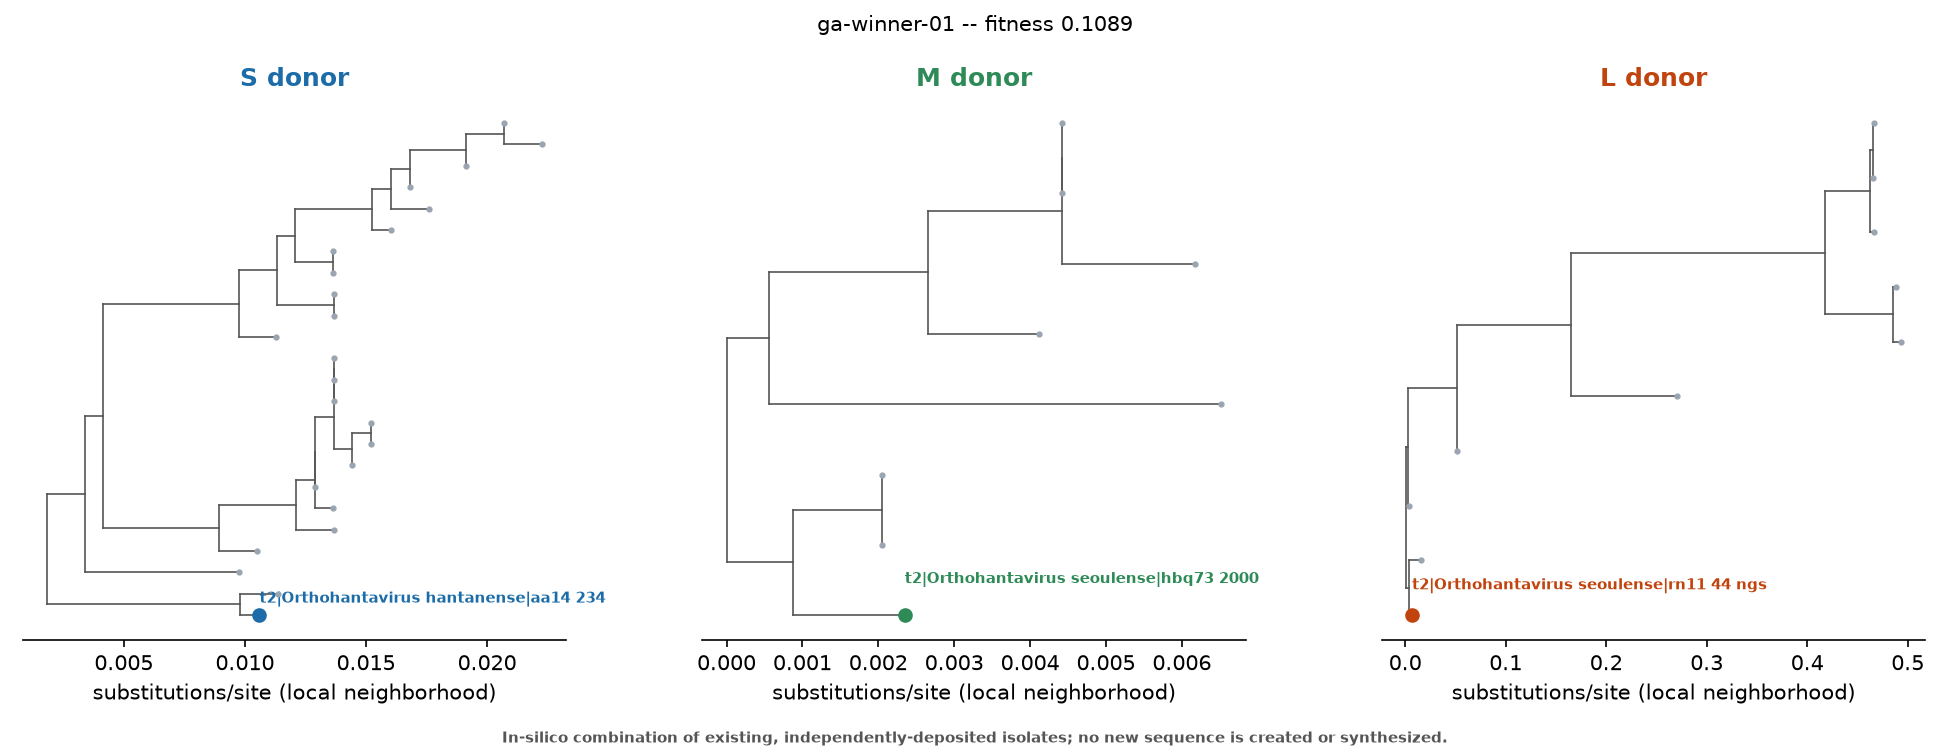
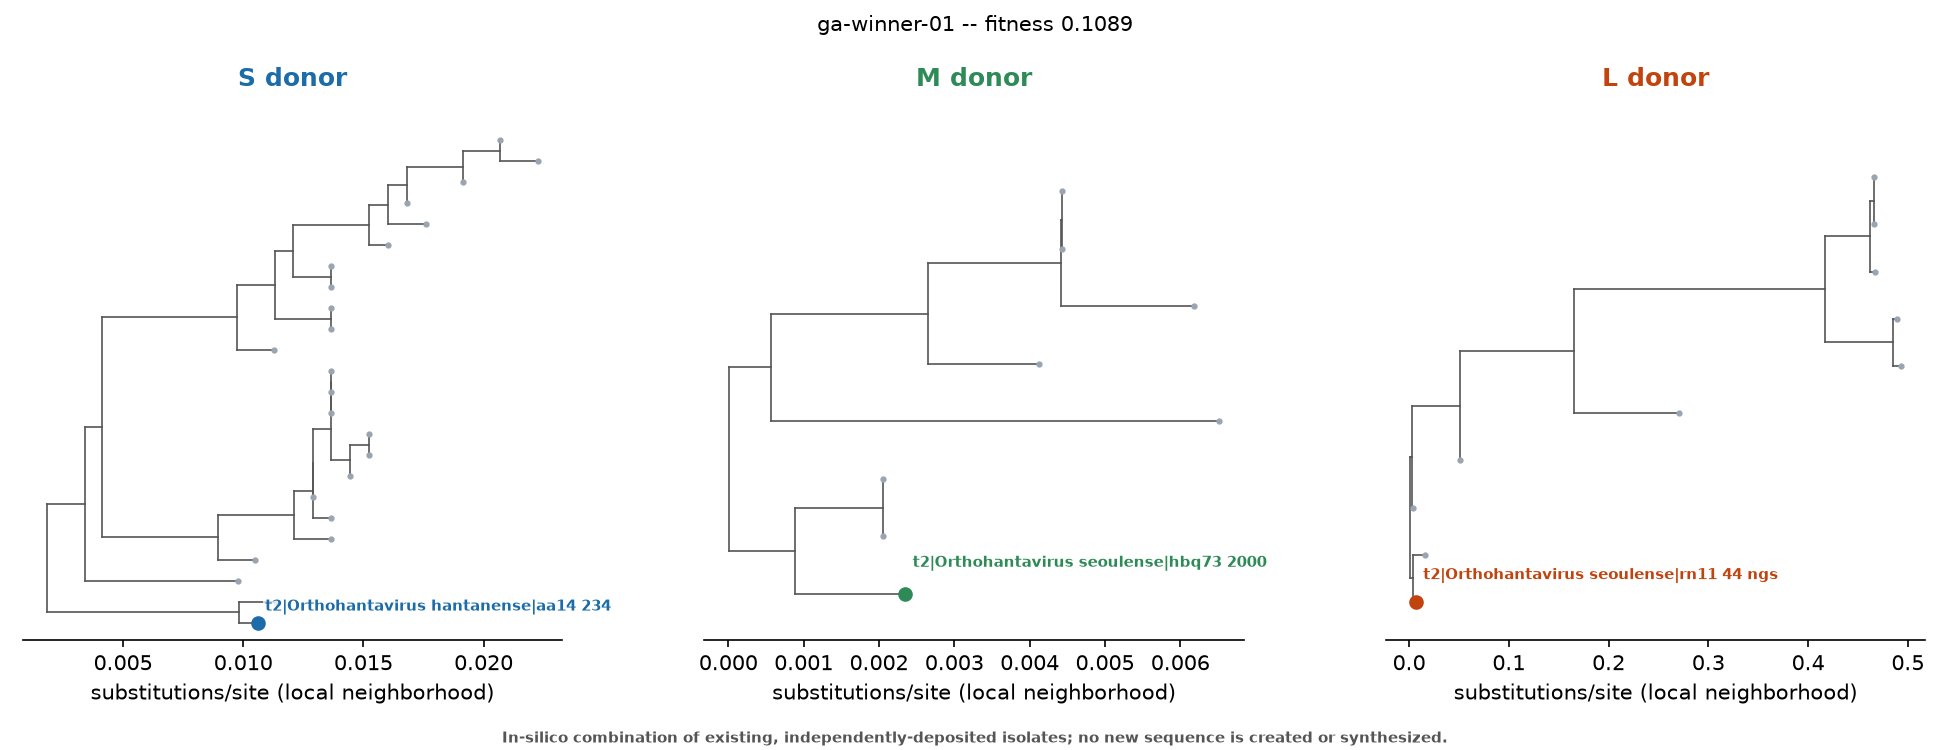
figures: keep highlighted-tip labels inside their panel
The highlighted donor's label is drawn above its own marker. Two ways it
escaped the panel, both visible in output/figures/after_terminal_complete/
ga-winner-00.png:

  * When the highlighted tip was the top-most one in the local neighborhood,
    the label landed in the title area -- "S donor" sat on top of
    t2|Orthohantavirus hantanense|js9. Matplotlib autoscales to the tip markers
    and a text artist does not extend the data limits, so the axes never
    reserved room for it: with tips at y 0..2 the autoscaled top is 2.10 while
    the label's baseline is at 2.40.
  * When the highlighted tip was one of the right-most ones, the left-aligned
    label ran past the right spine and was clipped -- the L donor's
    t2|Orthohantavirus seoulense|hbt43 2012 lost its tail.

draw_cladogram now sets an explicit ylim reserving LABEL_HEADROOM above the
label, and flips to right-alignment once the tip is past 45% of the panel's
x-range so the text grows leftwards into empty tree space. Panel titles get
TITLE_PAD_PT of extra pad. In a dense neighborhood a label can still cross
branch lines, so it is drawn over a near-opaque backing box.

Both panel families share draw_cladogram, so the before-panels get the same
fix; their cross-panel ConnectionPatch links are in data coordinates and are
unaffected by the ylim change (verified by re-rendering).

All 27 committed figures regenerated: 7 before, 10 per GA pool. The two
[…]

diff --git a/figures.py b/figures.py
@@ -48,6 +48,13 @@ SEGMENTS = ("S", "M", "L")
 SLOT_COLOR = {"S": "#1b6ca8", "M": "#2e8b57", "L": "#c1440e"}
 DEFAULT_MIN_TIPS = 8
 
+# Highlighted-tip label geometry, in tip-row units (one unit = one tip row).
+# LABEL_Y_OFFSET lifts the label off its own marker; LABEL_HEADROOM is the clear space
+# kept above it so it cannot reach the panel title. TITLE_PAD_PT lifts the title itself.
+LABEL_Y_OFFSET = 0.4
+LABEL_HEADROOM = 1.0
+TITLE_PAD_PT = 12.0
+
 
 # ============================================================================
 # Ingest + tip relabeling (reads phylogeny.py's persisted labels.json; never
@@ -176,8 +183,29 @@ def draw_cladogram(ax, clade: "Bio.Phylo.BaseTree.Clade", highlight_name: Option
         ax.plot([cx], [cy], marker="o", markersize=6 if is_hl else 2,
                 color=highlight_color if is_hl else "#9aa5b1", zorder=5)
         if is_hl:
-            ax.text(cx, cy + 0.4, tip.name, fontsize=7, fontweight="bold",
-                    color=highlight_color, va="bottom", ha="left")
+            # The label sits above its tip. Left-aligning it unconditionally pushed it off
+            # the right edge whenever the highlighted donor was one of the right-most tips
+            # (ga-winner-00's L donor did exactly this), so flip to right-alignment -- the
+            # text then grows leftwards into empty tree space -- once the tip is past the
+            # middle of the panel's x-range.
+            x_lo, x_hi = min(x.values()), max(x.values())
+            span = (x_hi - x_lo) or 1.0
+            flip = (cx - x_lo) / span > 0.45
+            # In a dense neighborhood the label unavoidably crosses branch lines; a
+            # near-opaque backing box keeps it readable without displacing it.
+            ax.text(cx + (-0.015 if flip else 0.015) * span, cy + LABEL_Y_OFFSET, tip.name,
+                    fontsize=7, fontweight="bold", color=highlight_color,
+                    va="bottom", ha="right" if flip else "left", zorder=6,
+                    bbox=dict(facecolor="white", edgecolor="none", alpha=0.75,
+                              pad=1.0, boxstyle="square,pad=0.15"))
+
+    # Headroom above the top tip. Without it the highlighted tip's label collided with the
+    # panel title whenever that tip was the top-most one in the local neighborhood (the
+    # "S donor" title over t2|Orthohantavirus hantanense|js9 in ga-winner-00). Matplotlib
+    # autoscales to the tip markers only -- a text artist does not extend the data limits --
+    # so the headroom has to be asked for explicitly.
+    n_tips = len(tips)
+    ax.set_ylim(-0.8, (n_tips - 1) + LABEL_Y_OFFSET + LABEL_HEADROOM)
 
     ax.set_yticks([])
     for spine in ("top", "right", "left"):
@@ -266,7 +294,8 @@ def render_before_figures(output_dir: Path, data_dir: str = "output",
             positions = draw_cladogram(ax, clade, highlight_name=isolate_key, highlight_color=color)
             title = segment + (" -- discordant" if segment == discordant else "")
             ax.set_title(title, color=color if segment == discordant else "black",
-                        fontweight="bold" if segment == discordant else "normal")
+                        fontweight="bold" if segment == discordant else "normal",
+                        pad=TITLE_PAD_PT)
             if isolate_key in positions:
                 tip_pos[segment] = positions[isolate_key]
 
@@ -348,7 +377,8 @@ def render_after_figures(ga_search_json: Path, output_dir: Path, data_dir: str =
             tree = load_tree_relabeled(stage_dir / tree_path_str)
             clade = local_neighborhood(tree, donor_key, min_tips=min_tips)
             draw_cladogram(ax, clade, highlight_name=donor_key, highlight_color=SLOT_COLOR[segment])
-            ax.set_title(f"{segment} donor", color=SLOT_COLOR[segment], fontweight="bold")
+            ax.set_title(f"{segment} donor", color=SLOT_COLOR[segment], fontweight="bold",
+                         pad=TITLE_PAD_PT)
 
         fig.suptitle(f"{candidate_id} -- fitness {winner.get('fitness'):.4f}", fontsize=10)
         fig.text(0.5, 0.01,
@@ -890,6 +920,56 @@ class DrawCladogramTest(unittest.TestCase):
             self.assertEqual(set(positions), {"t1", "t2", "t3"})
             self.assertGreater(positions["t2"][0], 0)
         finally:
+            plt.close(fig)
+
+    def _draw(self, newick, highlight):
+        import matplotlib
+        matplotlib.use("Agg")
+        import matplotlib.pyplot as plt
+        from io import StringIO
+        from Bio import Phylo
+        tree = Phylo.read(StringIO(newick), "newick")
+        fig, ax = plt.subplots()
+        positions = draw_cladogram(ax, tree.root, highlight_name=highlight)
+        return fig, ax, positions
+
+    def test_highlight_label_leaves_headroom_below_the_panel_title(self):
+        """The highlighted tip's label is drawn above its own marker, so when that tip is
+        the top-most one in the neighborhood the label used to run into the panel title
+        (ga-winner-00's "S donor" over t2|Orthohantavirus hantanense|js9). A text artist
+        does not extend the data limits, so the axes must reserve the space itself."""
+        newick = "((t1:0.1,t2:0.2):0.1,t3:0.3);"
+        fig, ax, positions = self._draw(newick, "t3")
+        try:
+            top_tip_y = max(y for _, y in positions.values())
+            label_top = top_tip_y + LABEL_Y_OFFSET
+            self.assertGreater(ax.get_ylim()[1], label_top,
+                               "no headroom above the highlighted tip's label")
+            self.assertGreaterEqual(ax.get_ylim()[1] - label_top, LABEL_HEADROOM * 0.9)
+        finally:
+            import matplotlib.pyplot as plt
+            plt.close(fig)
+
+    def test_right_hand_highlight_label_is_right_aligned_to_stay_in_panel(self):
+        """A left-aligned label on a right-most tip ran off the panel edge and was clipped
+        (ga-winner-00's L donor). Past the midpoint of the x-range it must grow leftwards."""
+        newick = "(t_short:0.01,t_long:1.0);"
+        fig, ax, _ = self._draw(newick, "t_long")
+        try:
+            labels = [t for t in ax.texts if t.get_text() == "t_long"]
+            self.assertEqual(len(labels), 1)
+            self.assertEqual(labels[0].get_ha(), "right")
+        finally:
+            import matplotlib.pyplot as plt
+            plt.close(fig)
+
+        fig, ax, _ = self._draw(newick, "t_short")
+        try:
+            labels = [t for t in ax.texts if t.get_text() == "t_short"]
+            self.assertEqual(len(labels), 1)
+            self.assertEqual(labels[0].get_ha(), "left")
+        finally:
+            import matplotlib.pyplot as plt
             plt.close(fig)
 
 
